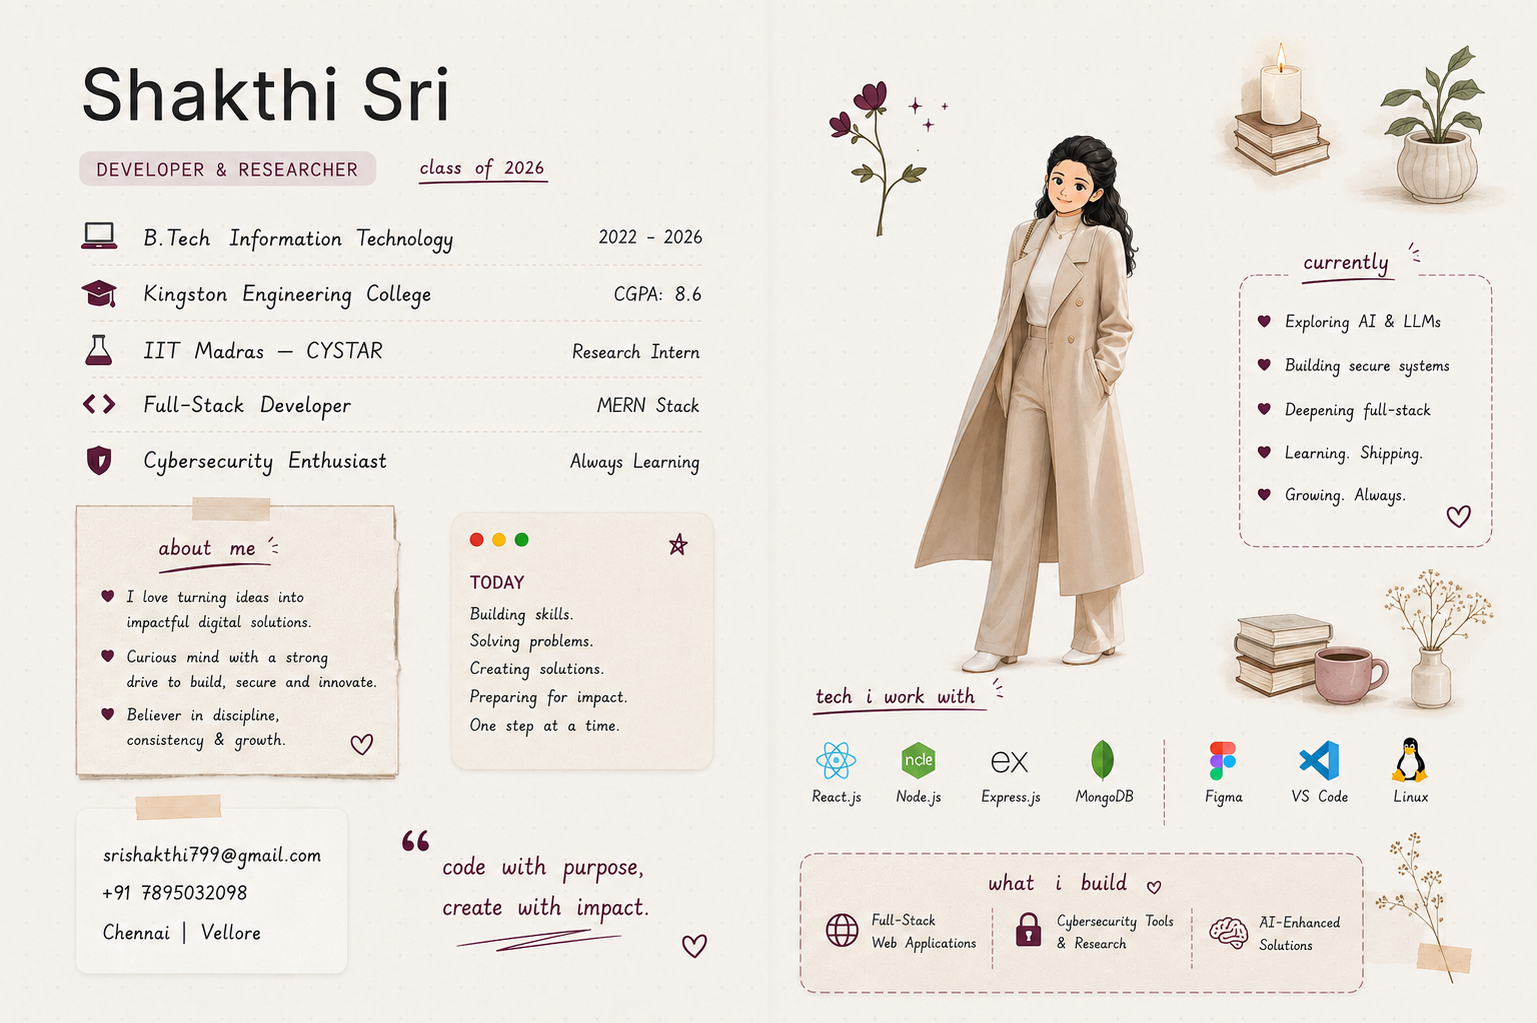
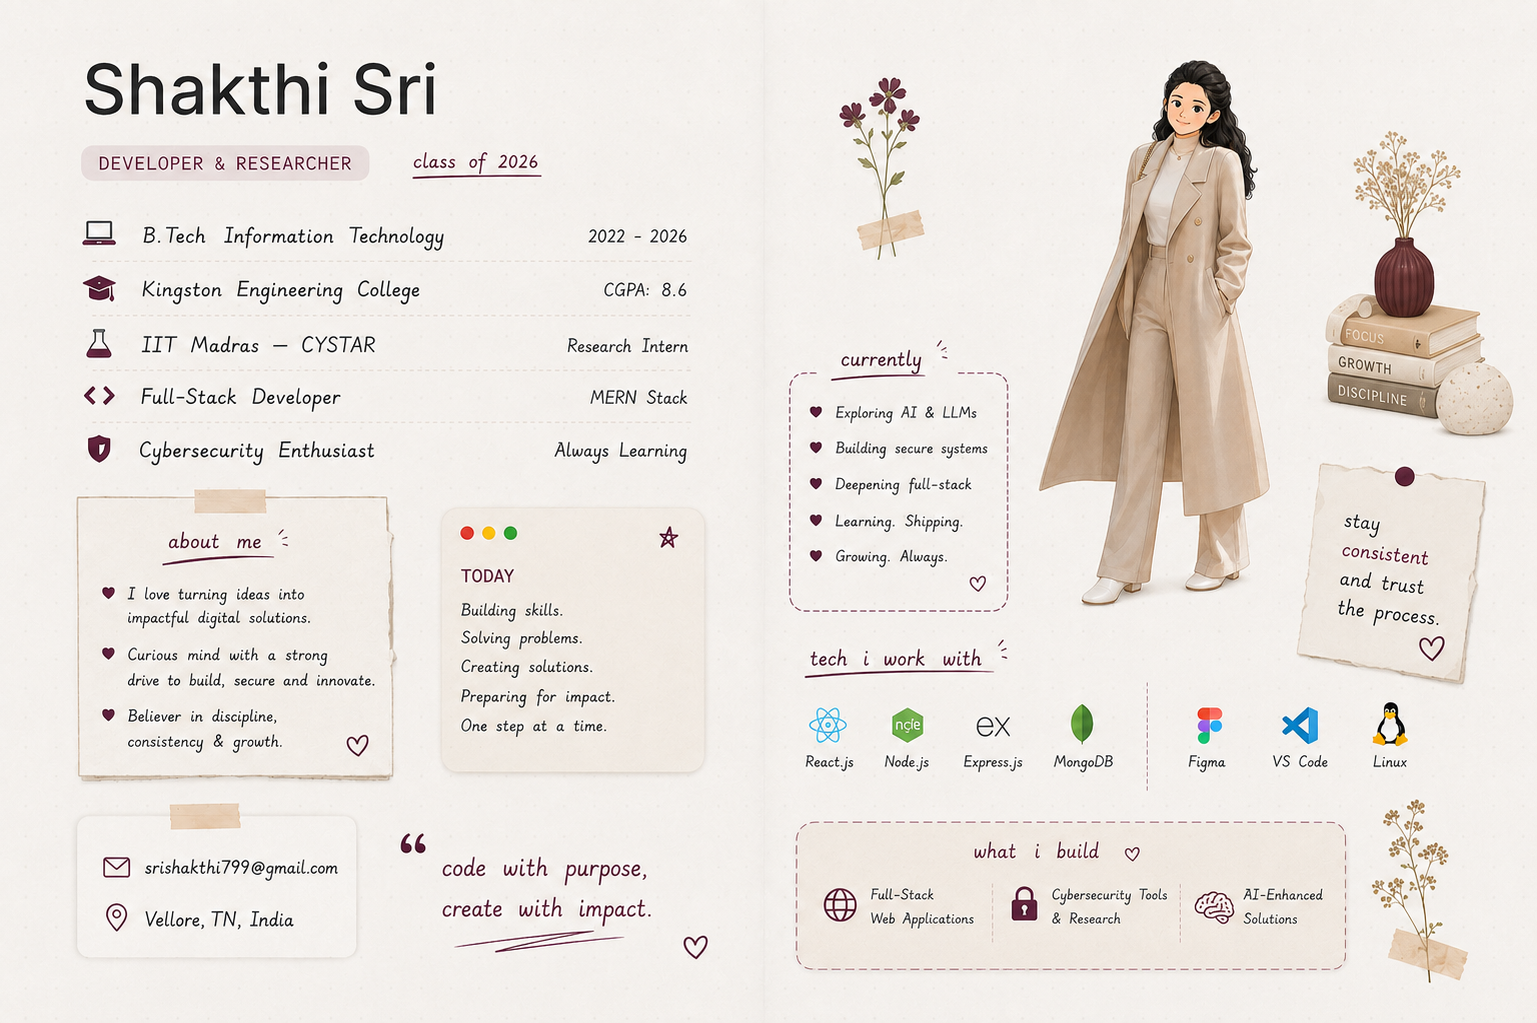
Re-position Read on Wattpad button perfectly inside bottom-right placeholder line

diff --git a/index.html b/index.html
@@ -3998,10 +3998,10 @@
             <!-- Center Spine Stitch Line Overlay -->
             <div class="absolute top-0 bottom-0 left-1/2 -translate-x-1/2 w-[1.5px] bg-amber-900/15 hidden md:block"></div>
 
-            <!-- WATTPAD INTERACTIVE LINK BUTTON EMBEDDED IN PLACEHOLDER -->
+            <!-- WATTPAD INTERACTIVE LINK BUTTON EMBEDDED PERFECTLY IN PLACEHOLDER -->
             <a href="https://www.wattpad.com/story/411657344-the-threadweaver's-knot" target="_blank" rel="noopener noreferrer" 
-               class="absolute bottom-[36px] md:bottom-[42px] right-[50px] md:right-[75px] z-40 bg-[#4A1224] hover:bg-[#6B2137] text-white font-bold text-xs sm:text-sm px-3.5 sm:px-5 py-1.5 sm:py-2 rounded-full shadow-lg transition-all hover:scale-105 flex items-center gap-2 border border-amber-200/30 group">
-              <span class="text-[#FF6122] font-black text-sm sm:text-base">W</span>
+               class="absolute bottom-[16px] md:bottom-[22px] right-[65px] md:right-[105px] z-40 bg-[#4A1224] hover:bg-[#6B2137] text-white font-bold text-[11px] sm:text-xs px-3 sm:px-4 py-1 sm:py-1.5 rounded-full shadow-md transition-all hover:scale-105 flex items-center gap-1.5 border border-amber-200/40 group">
+              <span class="text-[#FF6122] font-black text-xs sm:text-sm">W</span>
               <span class="font-bold tracking-wide" style="font-family: 'Outfit', sans-serif !important;">Read on Wattpad ↗</span>
             </a>
           </div>

diff --git a/scripts/place_wattpad_button_perfectly.py b/scripts/place_wattpad_button_perfectly.py
@@ -1,0 +1,32 @@
+import re
+
+with open('e:/portfoliosite/index.html', 'r', encoding='utf-8', errors='ignore') as f:
+    html = f.read()
+
+start_tag = '<div id="smriti-spread-3"'
+end_tag = '</div>'
+
+start_pos = html.find(start_tag)
+end_pos = html.find('</div>\n\n        </div>', start_pos)
+
+if start_pos != -1:
+    old_spread3 = html[start_pos:end_pos + len('</div>')]
+
+    # Replace wattpad button positioning to align perfectly inside the dotted placeholder line
+    new_button = '''<!-- WATTPAD INTERACTIVE LINK BUTTON EMBEDDED PERFECTLY IN PLACEHOLDER -->
+            <a href="https://www.wattpad.com/story/411657344-the-threadweaver's-knot" target="_blank" rel="noopener noreferrer" 
+               class="absolute bottom-[16px] md:bottom-[22px] right-[65px] md:right-[105px] z-40 bg-[#4A1224] hover:bg-[#6B2137] text-white font-bold text-[11px] sm:text-xs px-3 sm:px-4 py-1 sm:py-1.5 rounded-full shadow-md transition-all hover:scale-105 flex items-center gap-1.5 border border-amber-200/40 group">
+              <span class="text-[#FF6122] font-black text-xs sm:text-sm">W</span>
+              <span class="font-bold tracking-wide" style="font-family: 'Outfit', sans-serif !important;">Read on Wattpad ↗</span>
+            </a>'''
+
+    # Replace old button tag inside spread 3
+    updated_spread3 = re.sub(r'<!-- WATTPAD INTERACTIVE LINK BUTTON EMBEDDED IN PLACEHOLDER -->[\s\S]*?</a>', new_button, old_spread3)
+
+    new_html = html[:start_pos] + updated_spread3 + html[end_pos + len('</div>'):]
+
+    with open('e:/portfoliosite/index.html', 'w', encoding='utf-8') as f:
+        f.write(new_html)
+    print("SUCCESSFULLY RE-POSITIONED WATTPAD BUTTON PERFECTLY INSIDE DOTTED PLACEHOLDER LINE!")
+else:
+    print("Failed to find spread 3!")
